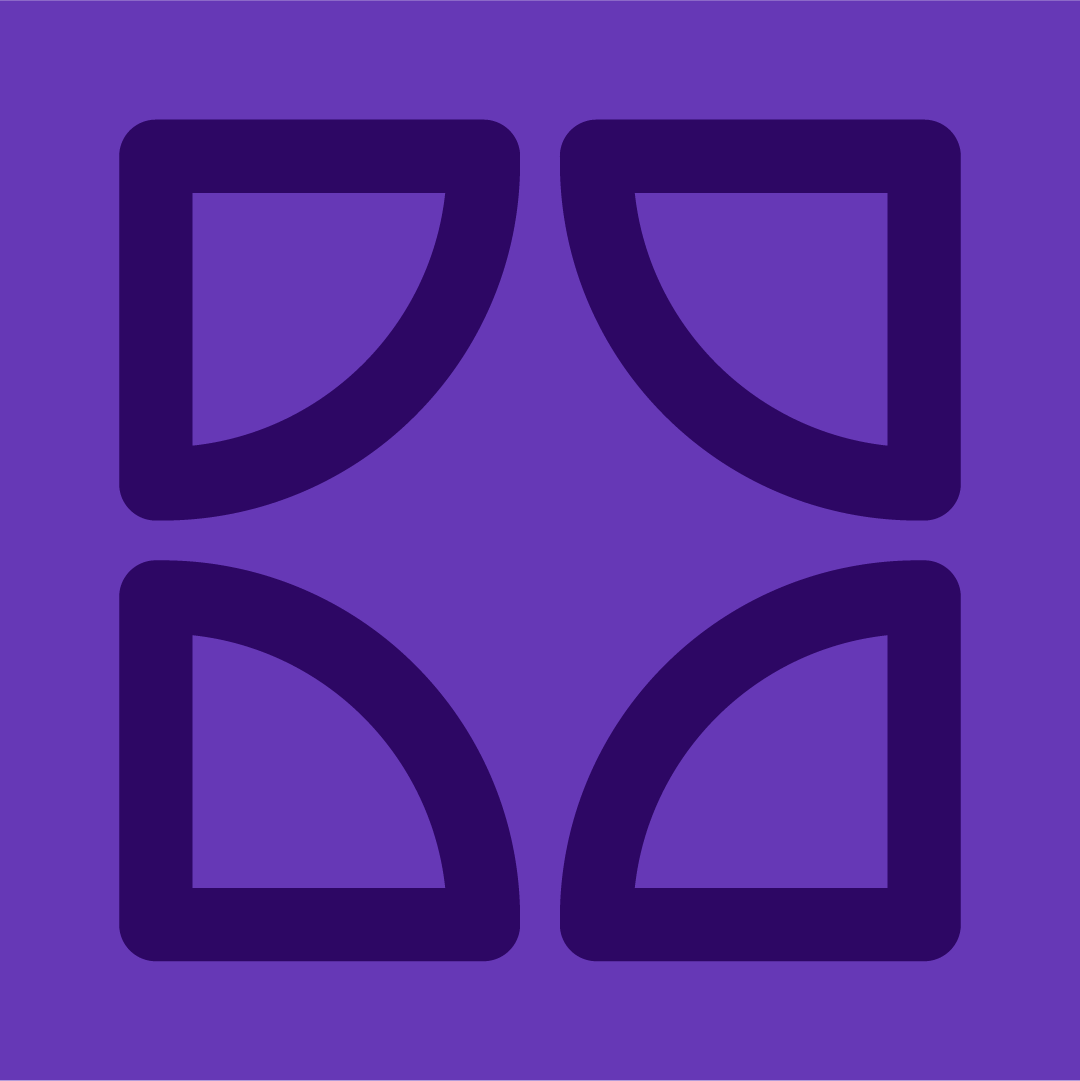
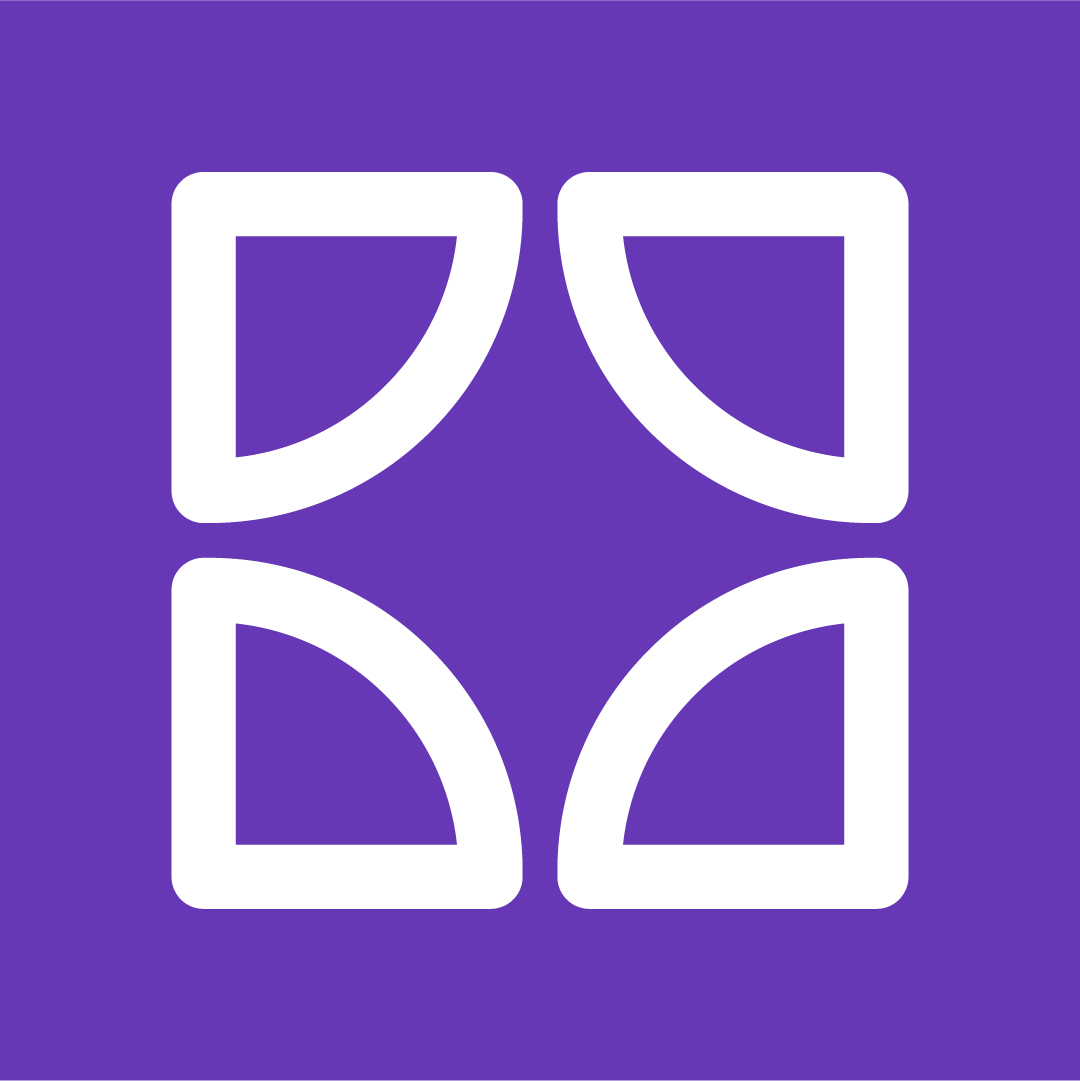
padding geändert container hinzugefügt der padding top der user input felder handled

diff --git a/src/components/StyleChange.vue b/src/components/StyleChange.vue
@@ -1,4 +1,6 @@
 <template>
+  <div class="container">
+
     <FormatChoice class="overlay" v-if="formatChanging" @click="handleFormatChanging"/>
   <section class="stylePreview" id="style01"  @click="addBild(), changeStyle('style01')" v-if="this.classicPossible">
     <img src="Platzhalter/Stil/Stil-1.png" :class="{ 'selected': this.styleClassic }" alt="">
@@ -7,6 +9,7 @@
       <p>Bild + Farbfläche in RWU-Lila.</p>
     </div>
   </section>
+  
 
   <section class="stylePreview" id="style02" @click="addBild(), changeStyle('style02')">
     <img src="Platzhalter/Stil/Stil-2.png" :class="{ 'selected': this.styleOverlay }" alt="">
@@ -23,8 +26,10 @@
       <p>Hintergrund Pattern bestehend aus Viertelkreisen, Dreiecken und Quadraten.</p>
     </div>
   </section>
+  <h3 class="fontLila" style="margin-bottom: 30px;" v-if="!this.classicPossible">Stil »Klassisch« mit diesem Format nicht verfügbar!</h3>
   <Btn buttonType="Secondary" buttonName="Format Ändern" buttonIcons="Vergroeßern.png" class="format-btn" @click="handleFormatChanging"/>
 
+</div>
 </template>
 
 <script>
@@ -60,6 +65,7 @@ export default {
 </script>
 
 <style scoped>
+
 .stylePreview {
   margin-bottom: 30px;
   display: flex;
@@ -77,9 +83,8 @@ export default {
 }
 
 .stylePreview img.selected {
-  box-sizing: border-box;
-  border: 10px solid #05C3DE; 
-  translate: ease-in 0.5s;
+  box-shadow: 0 0px 4px 10px #05C3DE;
+  transition: ease-in 0.1s;
 }
 
 .format-btn {

diff --git a/src/components/PatternChange.vue b/src/components/PatternChange.vue
@@ -1,4 +1,5 @@
 <template>
+  <div class="container">
   <h2 class="fontLila">Pattern Stil</h2>
   <section class="pattern-styles">
     <div class="pattern-variation">
@@ -63,6 +64,7 @@
       <label>Kreis</label>
     </div>
   </section>
+</div>
 </template>
 
 <script>
@@ -111,15 +113,14 @@ export default {
   height: auto;
   border-radius: 30px;
   cursor: pointer;
-  margin-bottom: 5px;
+  margin: 15px 0;
   box-sizing: border-box;
 }
 
 .pattern-variation img.selected {
-  border: 10px solid #05C3DE;
-  transition: ease-in 0.5s;
+  box-shadow: 0 0px 4px 10px #05C3DE;
+  transition: ease-in 0.1s;
 }
-
 .pattern-edit {
   margin-bottom: 30px;
 }
@@ -163,20 +164,22 @@ export default {
 
 .shape-style {
   width: 20%;
-  margin-right: 15px;
   text-align: center;
+  margin-right: 30px;
   cursor: pointer;
 }
 
 .shape-style img {
   width: 100%;
   height: auto;
+  margin: 10px 0;
   border-radius: 30px;
   box-sizing: border-box; 
 }
 
 .fill-selected {
-  border: 10px solid #05C3DE;
+  box-shadow: 0 0px 4px 10px #05C3DE;
+  transition: ease-in 0.1s;
 }
 
 

diff --git a/src/views/FluidDesigner.vue b/src/views/FluidDesigner.vue
@@ -20,7 +20,7 @@
 
     <!-- User Input Feld -->
     <div class="user-input-field">
-        <component :is="getActiveComponent()"/>
+        <component :is="getActiveComponent()" />
         <Btn buttonType="Primary" buttonName="Download" buttonIcons="Download.png" buttonWidth="2" class="btn-download"/>
     </div>
 
@@ -99,7 +99,7 @@ export default {
   display: grid;
   grid-template-columns: 70px 45vw auto;
   grid-template-areas: "navigation userinput canvas";
-  translate: ease-in 0.5s;
+  transition: ease-in 0.1s;
 }
 
 /* -----------------------------SideBar */
@@ -155,7 +155,7 @@ li.active img path {
   grid-area: userinput;
   box-sizing: border-box;
   height: 100vh;
-  padding: 60px;
+  padding: 0 60px 60px 60px;
   background-color: white;
   box-shadow: 20px 0px 30px rgba(102, 56, 182, 0.1);
   overflow-y: auto;

diff --git a/src/components/BildChoice.vue b/src/components/BildChoice.vue
@@ -1,5 +1,8 @@
 <template>
- <h1>Bild</h1>
+ <div class="fix"></div>
+ <div class="scroll">
+
+ </div>
 </template>
 
 <script>
@@ -10,5 +13,19 @@ export default {
 </script>
 
 <style scoped>
+.fix {
+  width: 100%;
+  height: 50px;
+  position: sticky;
+  top:0;
+  z-index: 1;
+  background-color: aqua;
+}
 
+.scroll {
+  width: 100%;
+  height: 100vh;
+  background-color: blueviolet;
+  z-index: -1;
+}
 </style>

diff --git a/src/App.vue b/src/App.vue
@@ -67,5 +67,9 @@ label {
 .fontWhite {
   color: white;
 }
+
+.container {
+  padding-top: 60px;
+}
 /* -----------------------------------------------------------Link */
 </style>

diff --git a/src/components/TextInput.vue b/src/components/TextInput.vue
@@ -1,5 +1,7 @@
 <template>
- <h1>Text</h1>
+ <div class="container">
+  
+ </div>
 </template>
 
 <script>
